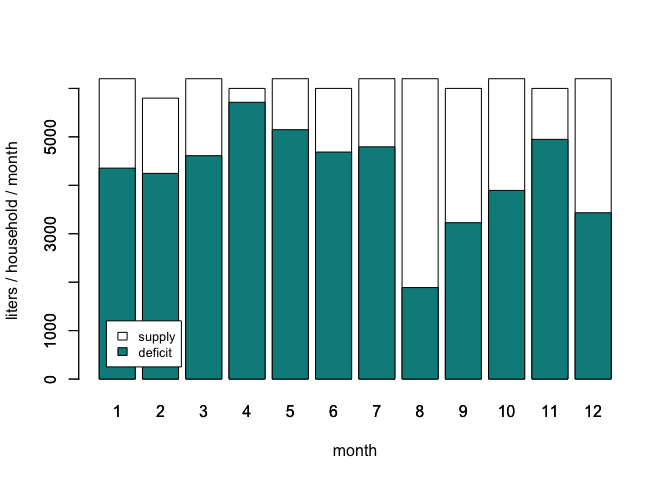
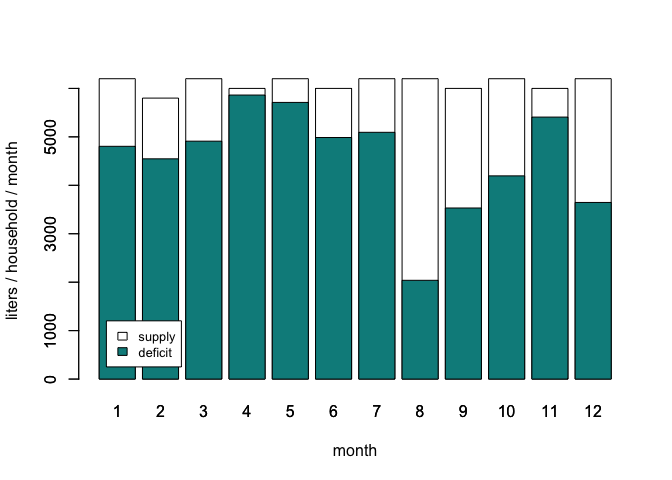
Updated the readme file

diff --git a/README.md b/README.md
@@ -44,10 +44,10 @@ Let’s explore the data:
 
 In this example, we will estimate the rainwater harvesting potential for
 a housing unit in Palembang. We will consider that the catchment area is
-100m.
+100 square meters and that the water storage capacity is 600 liters.
 
 ``` r
-r <- rhp(p = palembang$PRCP_mm, area = 100)
+r <- rhp(p = palembang$PRCP_mm, area = 100, tank.size = 600)
 ```
 
 Summarize the results
@@ -68,7 +68,7 @@ with rain:
 s$rain_percentage
 ```
 
-    ## [1] "70 %"
+    ## [1] "75 %"
 
 Now let’s find the total rainwater usage in liters in the given year:
 
@@ -76,4 +76,31 @@ Now let’s find the total rainwater usage in liters in the given year:
 s$rain_volume
 ```
 
-    ## [1] "50,945  L/year"
+    ## [1] "54,735  L/year"
+
+Now we will repeat all calculations for different tank capacities. We
+will try 600, 1000, 2000, 3000, and 4000 liters. For this calculation we
+will use the *rho* function (rainwater harvesting optimization).
+
+``` r
+R <- rho(p = palembang$PRCP_mm, area = 100, tank.size = c(600, 1000, 2000, 3000, 4000, 5000, 6000))
+S <- summarize_rh(R)
+S
+```
+
+    ##   tank.size   supply demand percentage
+    ## 1       600 54735.06  73200   74.77467
+    ## 2      1000 61467.74  73200   83.97233
+    ## 3      2000 69711.30  73200   95.23401
+    ## 4      3000 71968.50  73200   98.31762
+    ## 5      4000 72968.50  73200   99.68374
+    ## 6      5000 73200.00  73200  100.00000
+    ## 7      6000 73200.00  73200  100.00000
+
+As can be seen from the table, a tank with a capacity higher than 3000
+liters results in nearly full self-sufficiency (\>98%). A tank with 6000
+liters or higher capacity would result in increased costs with no
+additional benefits.
+
+Finally, we can plot the results to explain the optimal tank capacity.
+![](README_files/figure-gfm/unnamed-chunk-9-1.png)<!-- -->
